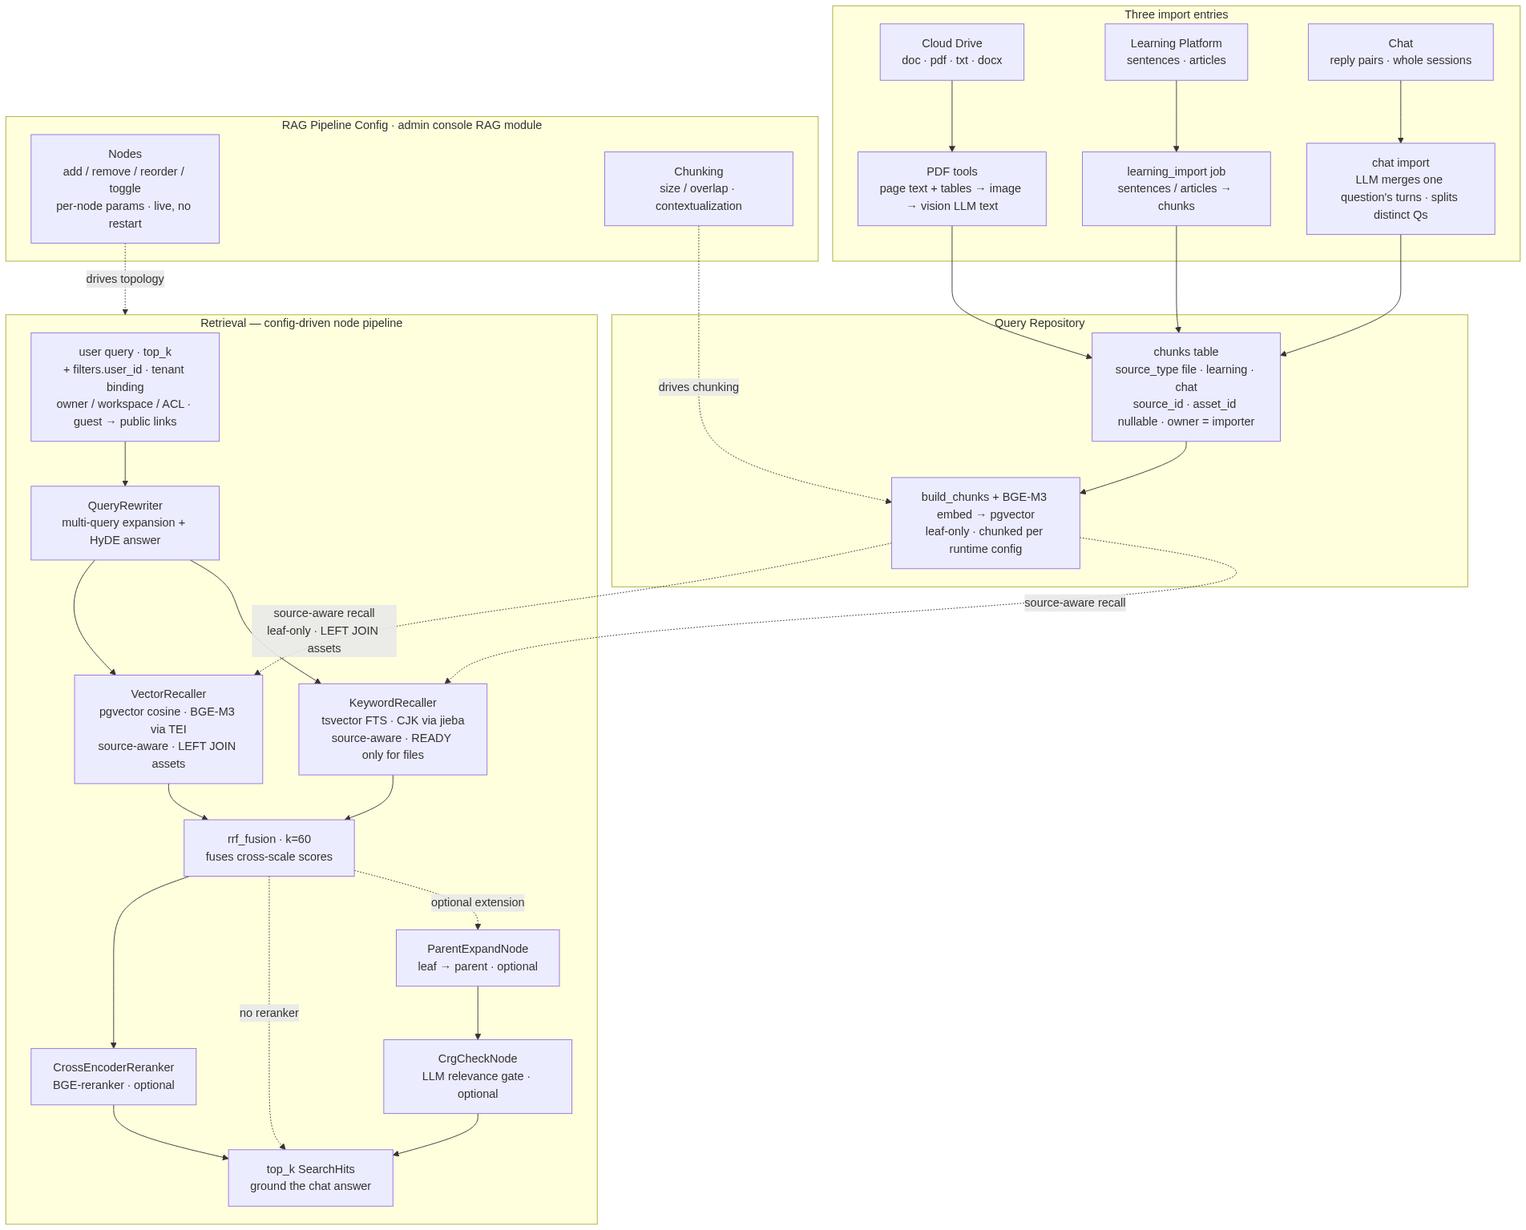
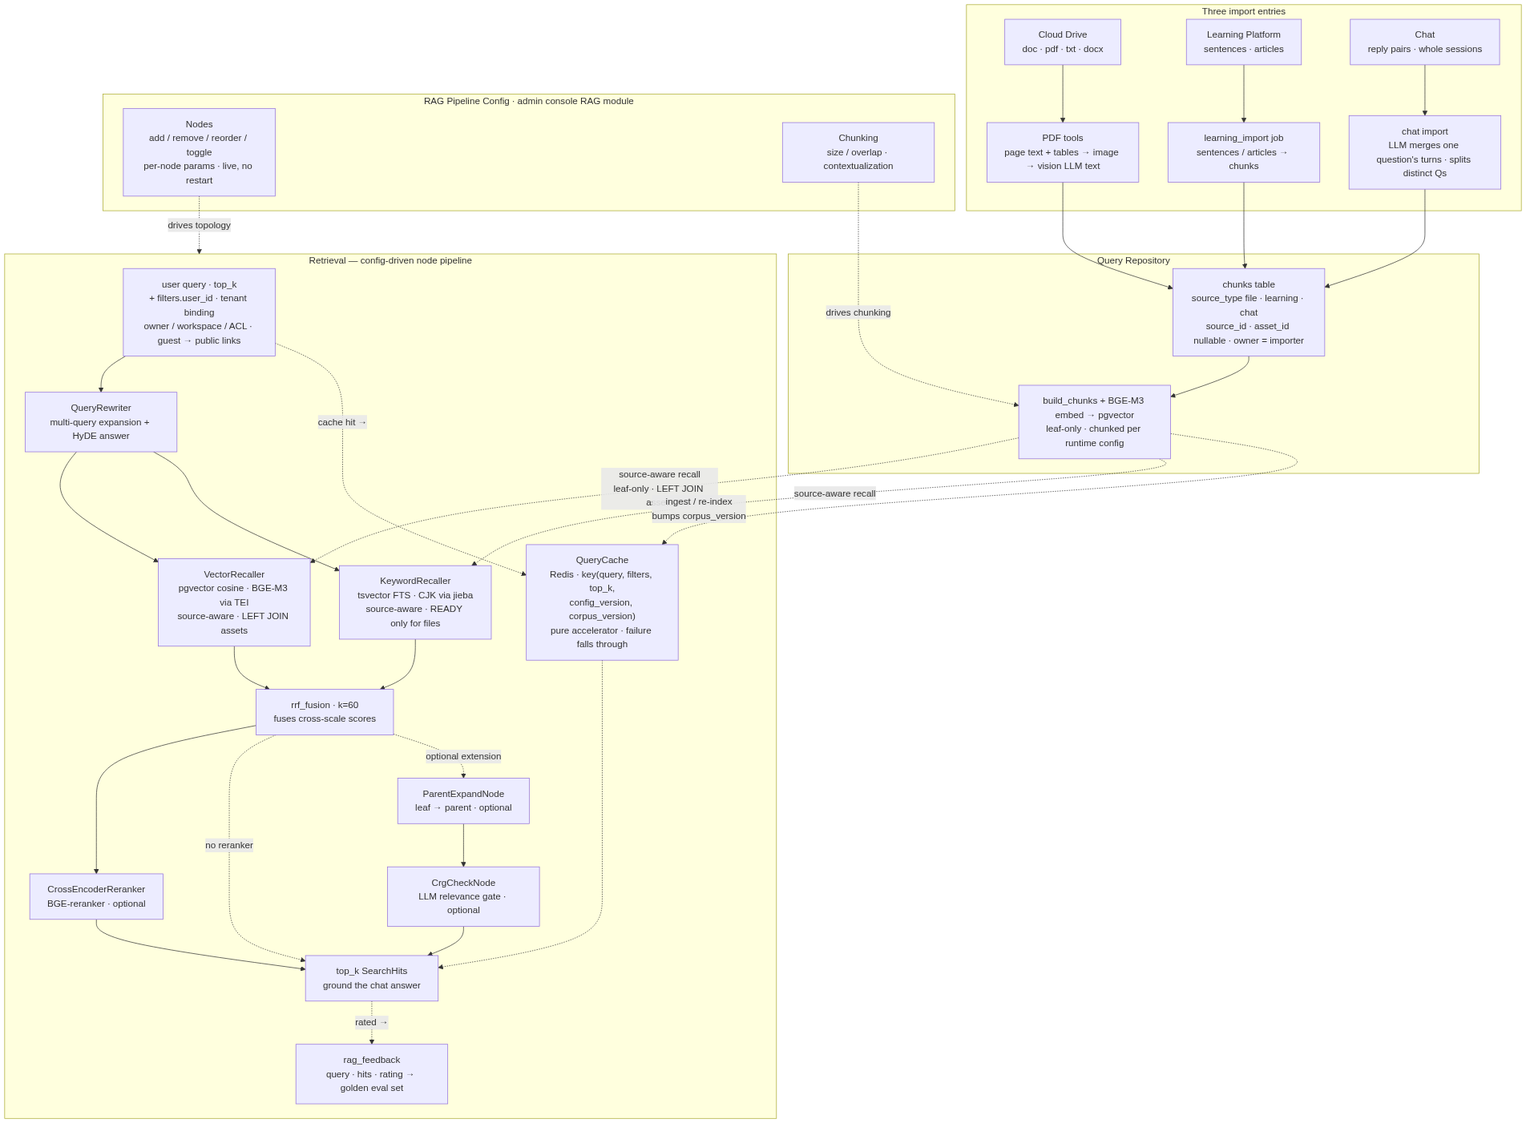
docs: sync architecture.md + README with the new-push reliability & retrieval design
architecture.md gains §5.5 (ReliableLLM timeout/retry/error-taxonomy +
per-turn cost budget), §5.6 (HITL approvals, subagents, plan mode, shadow-git
checkpoints), §6.5 Docker vs host bash sandbox, §8.1 run_agent_turn background
turns, §9 AuthGuard (token gate / rate limit / tenant binding), and §10.12
(Redis query cache keyed by config+corpus version, incremental re-index, and the
rag_feedback golden-dataset recorder). Implementation-status table updated.

README: AI Chat Assistant gains ReliableLLM/budget, approvals, and plan-mode /
subagents / checkpoints bullets; the RAG section adds query cache + feedback +
atomic re-index; the RAG diagram is re-rendered with QueryCache and rag_feedback
nodes (landscape, matches the existing 1904px width).

The feedback claim was corrected mid-flight: POST /rag/feedback and the
rag_feedback table are implemented, but no rating UI calls the endpoint yet.

diff --git a/docs/architecture.md b/docs/architecture.md
@@ -76,11 +76,11 @@
 |----|------|
 | Vocabulary subdomain | domains / terms / sentences / matches / materials / chunks (6 tables) |
 | Hybrid search | pgvector (semantic) + tsvector (keyword) + RRF fusion |
-| Agent runtime | `AgentKernel` composition root: cache-boundary `CacheBoundaryAssembler` (3 zones + `snapshot_key`) + deferred-tool `ToolGateway` + dual-track `MemoryService` (PG tsvector/pgvector RRF) + skill catalog + READ-only `Sandbox`, over `ReactLoopAgent` step loop + plugin `ToolRuntime` |
-| Retrieval | config-driven node pipeline (rewrite → recall → RRF → rerank, plus optional parent-expand / CRAG nodes; CJK + contextual + parent-child indexing); `in_process` default, gRPC service available; admin RAG console + golden-set eval (Recall@k / Precision@k / MRR) |
+| Agent runtime | `AgentKernel` composition root: cache-boundary `CacheBoundaryAssembler` (3 zones + `snapshot_key`) + deferred-tool `ToolGateway` + dual-track `MemoryService` (PG tsvector/pgvector RRF) + skill catalog + READ-only `Sandbox`, over `ReactLoopAgent` step loop + plugin `ToolRuntime`; `ReliableLLM` timeout/retry (error taxonomy + cancellation) + per-turn cost budget; HITL approvals (memory / Redis pub-sub broker); `run_subagent` (bounded child turns); `plan` meta-tool; shadow-git checkpoints (`revert_to_checkpoint`); Docker `BashSandbox` backend |
+| Retrieval | config-driven node pipeline (rewrite → recall → RRF → rerank, plus optional parent-expand / CRAG nodes; CJK + contextual + parent-child indexing); `in_process` default, gRPC service available (`AuthGuard` token gate / per-peer rate limit / tenant binding); admin RAG console + golden-set eval (Recall@k / Precision@k / MRR); Redis **query cache** (keyed by query/filters/top_k + config + corpus version); `POST /rag/feedback` golden-dataset recorder |
 | Query repository | unified multi-source corpus: cloud-drive files (`source_type='file'`) + Learning-Platform sentences/articles (`'learning'`) + chat Q&A pairs / LLM-grouped whole-session imports (`'chat'`); `chunks.asset_id` nullable + `source_type`/`source_id`, source-aware recall (both recallers `LEFT JOIN assets`); PDF tool chain (body text + tables rendered to PNG → vision LLM, per-table skip on failure); admin RAG → **Repository** tab lists non-file chunks with delete |
 | Model services | TEI embedding (BGE-M3), Kokoro TTS, LiteLLM gateway (all Docker) |
-| Async enrichment | gateway + arq worker split; `jobs` table is the source of truth; frontend polls `GET /jobs/{id}`; daily `session_events` retention cron in `WorkerSettings.cron_jobs` |
+| Async enrichment | gateway + arq worker split; `jobs` table is the source of truth; frontend polls `GET /jobs/{id}`; daily `session_events` retention cron in `WorkerSettings.cron_jobs`; `run_agent_turn` job reuses the API's `AgentKernel` singleton for scheduled background turns |
 | Session memory | PG-backed `sessions` / `messages` / `session_events` + deferred embed+summary finalize + trigger-gated proactive recall (Lane-1 brief always on) + RRF recency weighting + importance-weighted file recall + supersede-in-place user directives + hierarchical history compaction (L2 coarse recap + L1 summary at `/chat`) + 30-day audit-event retention |
 | Migrations | numbered SQL files (`migrations/*.sql`) + asyncpg runner (replaces Alembic) |
 | Chat | agent loop with tool use, SSE streaming |
@@ -102,6 +102,7 @@
 | Reranking | in-process cross-encoder exists but disabled (`reranker_model` empty); TEI reranker not wired |
 | GraphRAG node | graph-of-communities `graph_rag` node (LLM entity/relation extraction → community summaries → global/local search) designed only, see §10.6 |
 | Edge gateway | Traefik skeleton only; dev runs FastAPI directly on the host |
+| Retrieval-feedback UI | `POST /rag/feedback` + `rag_feedback` table exist (tests green), but no workbench/web UI calls the endpoint yet |
 
 ## 1. Product Positioning
 
@@ -413,6 +414,62 @@ visible-tool stubs).
   (the earliest matching message, truncated to 500 chars) so the client can show exactly where the
   match landed even when it is not in the title.
 
+### 5.5 Reliability & per-turn budget
+
+Every agent LLM call goes through :class:`~agent.llm.llm_guard.ReliableLLM` (wired once on the
+kernel, wrapping any ``AgentLLMPort``):
+
+- **hard timeout** — ``asyncio.wait_for`` (``settings.llm_timeout_seconds``, default 90 s); a hung
+  provider stalls the turn no longer. For streams the timeout bounds only the *first token*; once
+  deltas are flowing they forward untouched, so mid-stream failures surface to the loop as a step error.
+- **retry with exponential backoff** — tenacity retries only *temporary* errors
+  (``LLMTemporaryError``: timeout, 429, 5xx, connection hiccups) up to ``max_retries`` with
+  exponential backoff capped at 15 s; fatal errors surface immediately.
+- **error taxonomy** (:mod:`~agent.llm.llm_errors`) — ``classify`` maps any exception to
+  ``LLMTemporaryError`` (retryable) or ``LLMFatalError`` (auth, bad request, unknown) without
+  hard-coding an SDK; base-exception control flow (``CancelledError`` / ``KeyboardInterrupt`` /
+  ``SystemExit``) is passed through unchanged and **never caught by a retry loop**.
+- **cancellation** — an SSE disconnect aborts the underlying request at once; the loop logs
+  ``turn-cancelled``, closes session memory, and re-raises, so a dropped client never leaks state.
+
+The loop also enforces a **hard per-turn budget** (:class:`AgentTurn.max_budget_usd`, default
+``settings.max_budget_per_turn_usd``). Each step accumulates ``usage`` on the turn; after the step
+``estimate_cost_usd(turn.usage, model)`` prices it and `_budget_exceeded` aborts the loop once the
+accumulated cost crosses the cap (an ``error`` event is streamed on the SSE path). Cost, usage, and
+budget all live on the per-turn object — concurrent turns never share accounting.
+
+### 5.6 Human-in-the-loop: approvals, subagents, plan mode, checkpoints
+
+**Approvals** (:mod:`~agent.security.approvals`) — when the sandbox gates a tool to **ASK**, the
+runtime calls the process-global :class:`ApprovalBridge` wired as ``ToolRuntime(approval=bridge)``.
+The bridge reads the per-request :class:`ApprovalStore` bound to the current task via a contextvar
+(so concurrent requests never share approval state), emits an ``approval-request`` SSE event with the
+tool name / arguments / reason, and blocks on a decision future until
+``settings.approval_timeout_seconds`` (timeout → deny). ``POST /approvals/{id}`` resolves it. The
+:class:`ApprovalBroker` is **distributed**: state lives in Redis and resolutions wake the pending SSE
+across nodes via Redis Pub/Sub; :class:`MemoryApprovalBroker` is the single-process dev/tests
+fallback. A tool that ASKs with no approver bound **degrades to deny** — safe by default.
+
+**Subagents** (:mod:`~agent.tools.subagent`) — the ``run_subagent`` tool spawns a *bounded child
+turn*: a fresh ``AgentTurn`` (empty history) on the same runtime but with a filtered tool schema —
+no recursive ``run_subagent`` and no parent meta-tools (``tool_search`` / ``plan`` /
+``revert_to_checkpoint``) — capped at ``SUBAGENT_MAX_STEPS`` steps and ``max_subagent_depth``
+nesting (tracked in a task-local ``ContextVar``). The child runs in its own task with a copied
+context, so nested subagents on the shared kernel never interfere with the parent turn or each
+other; the child's final answer returns as the tool result and its messages are discarded.
+
+**Plan mode** (:mod:`~agent.tools.plan_tool`) — the ``plan`` meta-tool lets the model present an
+explicit multi-step breakdown before acting: it emits a ``{"type": "plan", "data": {goal, steps}}``
+event to the turn's progress sink (streamed as an SSE frame) and returns a confirmation. The loop
+needs no change — ``plan`` is just another tool the model may choose.
+
+**Checkpoints** (:mod:`~agent.tools.checkpoints`) — before each turn the kernel records a
+**shadow-git snapshot** of ``settings.workspace_dir`` into an *out-of-tree* git-dir
+(``settings.checkpoint_dir``), so ``revert_to_checkpoint`` / ``POST /checkpoints/{id}/revert`` can
+roll the workspace back to a known-good state after a bad batch of agent file edits. The shadow repo
+is initialized once with ignore rules in ``info/exclude`` (never a ``.gitignore`` in the user's
+workspace); large media and derived artifacts never enter a snapshot, keeping each commit small.
+
 ## 6. Tool Runtime
 
 The Agent core implements a plugin-based tool runtime in Python. The essentials:
@@ -506,6 +563,16 @@ host granted it or a human approver confirms. `ASK` with no approver degrades to
 rejected (`_resolve`). The desktop workbench's "generate media" flow (`/media/generate` → worker
 `generate_media`) stays a separate HTTP+job pipeline, not an agent tool.
 
+**`bash_sandbox.py`** — where the ``bash`` tool's commands actually run, two backends behind one
+:class:`BashSandbox` protocol (`settings.bash_sandbox` = ``"docker"`` | ``"host"``, default
+``"host"``):
+- :class:`DockerBashSandbox` — the **production path**: each command runs in a fresh, one-shot
+  container (docker-py) with the workspace mounted read-write, **network disabled by default**,
+  memory/CPU caps, and a call-level timeout. Real isolation lives here.
+- :class:`HostBashSandbox` — a hardened **local-development-only** fallback: the command runs on
+  the host process, so it is **not a security boundary** — only a best-effort workspace-escape
+  guard (:func:`assert_no_escape`), a hard timeout, and an output cap.
+
 ## 7. Capability Seam (Definition / Provider / Consumer)
 
 ```
@@ -587,6 +654,14 @@ A daily retention cron (`prune_session_events`, registered in `WorkerSettings.cr
 `session_events` older than `SESSION_EVENTS_RETENTION_DAYS` (30); only the audit log is purged —
 `messages` (the recall corpus) and `sessions` (summaries) are deliberately kept.
 
+**Background agent turns** — the `run_agent_turn` job (cron / scheduled activity) runs one agent
+turn for a user/session in the worker. It **reuses the API's hardened `AgentKernel` singleton**, so
+a scheduled turn gets exactly the same prompt assembly, recall, approvals, telemetry, and budget
+guard as an interactive one — no second, drift-prone kernel construction in the worker. The answer
+lands in the session like a normal chat message and `session_finalize` is deferred exactly as in the
+interactive path (payload: `user_id` / `session_id` / `message`, plus optional `model` / `base_url` /
+`api_key` to pin an LLM channel).
+
 ## 9. Retrieval Service (gRPC)
 
 Contract (`proto/retrieval/v1/retrieval.proto`, `package retrieval.v1`):
@@ -605,6 +680,24 @@ message SearchHit { string id = 1; string text = 2; double score = 3; string met
 - `apps/retrieval/main.py` starts `grpc.aio.server()` on `RETRIEVAL_GRPC_ADDR`.
 - `core/infrastructure/retrieval_grpc.py` (`GrpcRetriever`) maps proto `SearchHit` back to dicts.
 - Codegen: `scripts/gen_proto.sh` (buf if present, else `grpc_tools.protoc`) → `packages/shared/proto/retrieval/v1/`.
+
+Every `Retrieve` is gated by an :class:`AuthGuard` (in `apps/retrieval/server.py`) before reaching
+the pipeline:
+
+- **token gate** — a shared secret from gRPC metadata (`authorization: Bearer <token>`); an empty
+  ``token`` disables auth so local development needs no secret. Wrong/missing token →
+  ``UNAUTHENTICATED``.
+- **per-peer rate limit** — a per-peer token bucket when ``rate_limit > 0`` (0 = unlimited);
+  an exhausted bucket → ``RESOURCE_EXHAUSTED``.
+- **tenant binding** — the pipeline only applies its owner / workspace / ACL visibility predicate
+  when a ``user_id`` filter is present; a request without one reads across every tenant. The guard
+  therefore **requires** a non-empty ``user_id`` (or an explicit ``guest=1`` marker) and rejects
+  anything else with ``PERMISSION_DENIED``. A guest resolves to ``user_id=None``, which the recall
+  nodes treat as public-link assets only.
+
+``Health`` is deliberately unauthenticated (a liveness probe that leaks no data). On the client
+side, `GrpcRetriever` stringifies the filter values (UUIDs → str) and attaches the same Bearer
+token as metadata, normalizing a guest `user_id=None` to the ``guest=1`` marker on the wire.
 
 ## 10. RAG Module (Config-Node Pipeline)
 
@@ -861,6 +954,32 @@ Defined in migration `0010_rag_pipeline.sql`:
 `chunks.parent_chunk_id` (FK → `chunks.id` ON DELETE SET NULL), `chunks.chunk_kind` (default
 `'leaf'`), `chunks.content_search TEXT NULL`; indexes on `parent_chunk_id` and GIN on
 `to_tsvector('simple', content_search)`.
+
+### 10.12 Query cache & retrieval feedback
+
+**Query cache** (`rag/query_cache.py`) — a Redis cache in front of any `Retriever` (in-process
+`RAGPipeline` or the gRPC client), keyed by `(query, filters, top_k, config-version, corpus-version)`:
+
+- **config change** — the key embeds a hash of the current node config, so a new topology
+  invalidates automatically (no explicit flush needed).
+- **corpus change** — a `rag:corpus_version` Redis counter is bumped on every ingest / re-index
+  (worker `asset_ingest` / `learning_import` / `chat_session_import`, admin `reindex`); the version
+  is part of the key, so stale hits vanish as soon as the corpus moves.
+- **degradation contract** — the cache is a pure accelerator: Redis down, a missing value, or a
+  write failure all fall through to the wrapped retriever, so a retrieval is never failed by the
+  cache. Disabled when `query_cache_ttl_seconds <= 0` or no Redis client is bound
+  (`wrap_retriever` returns the inner retriever untouched).
+
+**Incremental re-index** — `POST /admin/rag/reindex` re-ingests every READY asset under the current
+chunking config. Per asset the rebuild is atomic (delete-by-asset + bulk insert) so a worker timeout
+preserves already-committed chunks and a re-run redoes only the remainder; on completion the corpus
+version bumps, dropping stale query-cache hits immediately.
+
+**Retrieval feedback** (`rag_feedback` table, `RagFeedbackModel`) — `POST /rag/feedback` persists a
+👍/👎 rating for the chunks behind an answer. Each row snapshots the query, the retrieved hits
+(`id` / `score` / text), the rating, and an optional reason, so the corpus becomes a **golden
+dataset** for future fine-tuning / eval without re-running retrieval. The endpoint and table are
+implemented (with tests); a rating UI that calls it is not wired up yet.
 
 ## 11. Feature → Mechanism Map
 

diff --git a/README.md b/README.md
@@ -262,6 +262,7 @@ flowchart TB
     %% ── ③ retrieval node pipeline ─────────────────────────────────
     subgraph RETR["Retrieval — config-driven node pipeline"]
         Q["user query · top_k<br/>+ filters.user_id · tenant binding<br/>owner / workspace / ACL · guest → public links"]
+        QC["QueryCache<br/>Redis · key(query, filters, top_k,<br/>config_version, corpus_version)<br/>pure accelerator · failure falls through"]
         REWRITE["QueryRewriter<br/>multi-query expansion + HyDE answer"]
         VEC["VectorRecaller<br/>pgvector cosine · BGE-M3 via TEI<br/>source-aware · LEFT JOIN assets"]
         KW["KeywordRecaller<br/>tsvector FTS · CJK via jieba<br/>source-aware · READY only for files"]
@@ -270,7 +271,10 @@ flowchart TB
         PE["ParentExpandNode<br/>leaf → parent · optional"]
         CRG["CrgCheckNode<br/>LLM relevance gate · optional"]
         OUT["top_k SearchHits<br/>ground the chat answer"]
+        FB["rag_feedback<br/>query · hits · rating → golden eval set"]
         Q --> REWRITE
+        Q -. cache hit → .-> QC
+        QC -.-> OUT
         REWRITE --> VEC
         REWRITE --> KW
         VEC --> RRF
@@ -281,10 +285,12 @@ flowchart TB
         RRF -. optional extension .-> PE
         PE --> CRG
         CRG --> OUT
+        OUT -. rated → .-> FB
     end
 
     EMBED -. source-aware recall<br/>leaf-only · LEFT JOIN assets .-> VEC
     EMBED -. source-aware recall .-> KW
+    EMBED -. ingest / re-index<br/>bumps corpus_version .-> QC
 
     %% ── ④ RAG pipeline config ─────────────────────────────────────
     subgraph CFG["RAG Pipeline Config · admin console RAG module"]
@@ -326,7 +332,10 @@ flowchart TB
 - **Deferred Tool Loading**: the prompt carries only a compact `name + blurb` catalog plus the resident `tool_search` meta-tool; matched tools appear in the visible set as stable `name + description` stubs (defer_loading style) so the cached tools array never churns, and each tool's full schema is returned in the `tool_search` result. The prompt window is also bounded by a per-message snip plus a token-aware autocompact that fires on a character budget.
 - **Dual-Track Memory**: session recall fuses PostgreSQL tsvector (keyword) + pgvector (semantic) via RRF, recency-weighted so newer messages win near-ties; when the embedding service is offline it degrades to tsvector-only — never a silent empty. `memory_search` / `memory_save` are tools; `memory_save` writes guardrailed notes (kebab-case key, length-capped content, closed type taxonomy) to the local memory directory while the session stays read-only. Proactive recall injects top hits for your question into the prompt, and long conversations are auto-compacted into an LLM summary (bounded token window).
 - **Skill Catalog**: skills (SKILL.md) are advertised as a one-line compressed index; the full instructions are lazy-loaded through the `skill` meta-tool.
-- **Read-Only Sandbox**: every tool call is gated by session permissions (READ / WRITE / NETWORK); file tools are rooted at the workspace dir and path escape is rejected. Writes and network access need an explicit grant or human approval.
+- **Read-Only Sandbox**: every tool call is gated by session permissions (READ / WRITE / NETWORK); file tools are rooted at the workspace dir and path escape is rejected. Writes and network access need an explicit grant or human approval. The `bash` tool runs behind a sandbox backend — **Docker** (production: one-shot container, workspace mounted read-write, network disabled by default, resource-capped) or a host sandbox (local development only, not a security boundary).
+- **Reliable LLM calls & per-turn budget**: every model call goes through a timeout/retry guard — a hard 90 s timeout (streams bound only the first token), exponential-backoff retries for transient errors only (timeout / 429 / 5xx), and an error taxonomy that never swallows cancellation; an SSE disconnect aborts the request at once and the turn closes cleanly. Each turn accumulates usage, is priced against `max_budget_usd`, and aborts the loop when the cap is crossed — accounting is per-turn, so concurrent turns never share it.
+- **Human-in-the-loop approvals**: a tool gated to **ASK** routes through a process-global approval bridge that emits an `approval-request` SSE event and blocks on your decision (`POST /approvals/{id}`; timeout → deny). In multi-node setups approvals resolve over Redis Pub/Sub; with no approver bound the tool is denied — safe by default.
+- **Plan mode, subagents & checkpoints**: the `plan` meta-tool streams an explicit step breakdown before acting; `run_subagent` spawns a bounded child turn (empty history, filtered tool set, depth/step-capped) that returns its final answer as the tool result; before each turn the workspace is snapshotted into an out-of-tree shadow git repo, so `revert_to_checkpoint` can roll back a bad batch of agent edits.
 - **RAG Retrieval**: a config-driven node pipeline — query rewrite → multi-recall (vector + keyword) → RRF fusion → rerank, extensible with CJK segmentation, contextual enrichment, parent/child indexing, and domain filtering. Full feature walk-through in **RAG & Query Repository** below.
 - **Query Repository**: one search corpus for cloud-drive files (PDF tables transcribed via vision), Learning-Platform sentences/articles, and chat Q&A.
 - **SSE Streaming**: Real-time token streaming to the frontend.
@@ -364,7 +373,16 @@ flowchart TB
 - **Domain-scoped search**: the `rag_search` tool takes an optional `domain` argument — retrieval
   narrows to assets in that knowledge domain (file chunks only) — [design: §10.6](docs/architecture.md#106-nodes).
 - **Re-index & safe re-import**: an admin **Reindex** button re-ingests every ready file under the
-  latest chunking config; re-importing a source replaces its old chunks first — no duplicates — [design: §10.8](docs/architecture.md#108-query-repository-multi-source-import).
+  latest chunking config; re-importing a source replaces its old chunks first — no duplicates. Rebuilds
+  are atomic per asset (old chunks replaced in one step), so a worker timeout preserves already-committed
+  chunks; on completion the corpus version bumps, dropping stale cache hits immediately — [design: §10.12](docs/architecture.md#1012-query-cache--retrieval-feedback).
+- **Query cache**: repeated queries short-circuit through a Redis cache keyed on (query, filters,
+  top_k, config version, corpus version) — a topology change or a re-index invalidates automatically.
+  The cache is a pure accelerator: any failure falls through to the pipeline — [design: §10.12](docs/architecture.md#1012-query-cache--retrieval-feedback).
+- **Retrieval feedback loop**: a 👍/👎 rating for the chunks behind an answer is recorded via
+  `POST /rag/feedback` — each entry snapshots the query, the retrieved hits, and an optional reason
+  into `rag_feedback`, growing a golden dataset for eval and fine-tuning — [design: §10.12](docs/architecture.md#1012-query-cache--retrieval-feedback).
+  (The recording endpoint is live; the workbench UI that calls it is not wired up yet.)
 - **Degrade, never break the chat**: when the retrieval stack is unavailable, the assistant answers
   from its own knowledge with a notice instead of erroring or retrying — [design: §10](docs/architecture.md#10-rag-module-config-node-pipeline).
 
